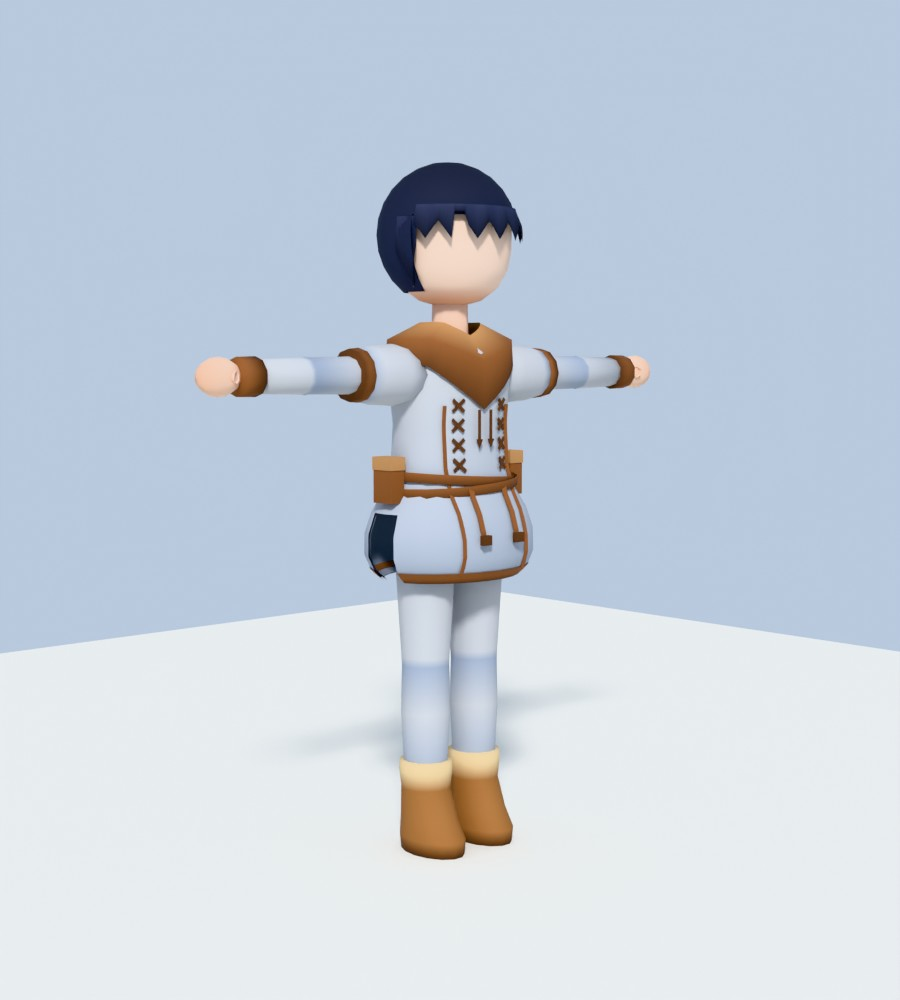
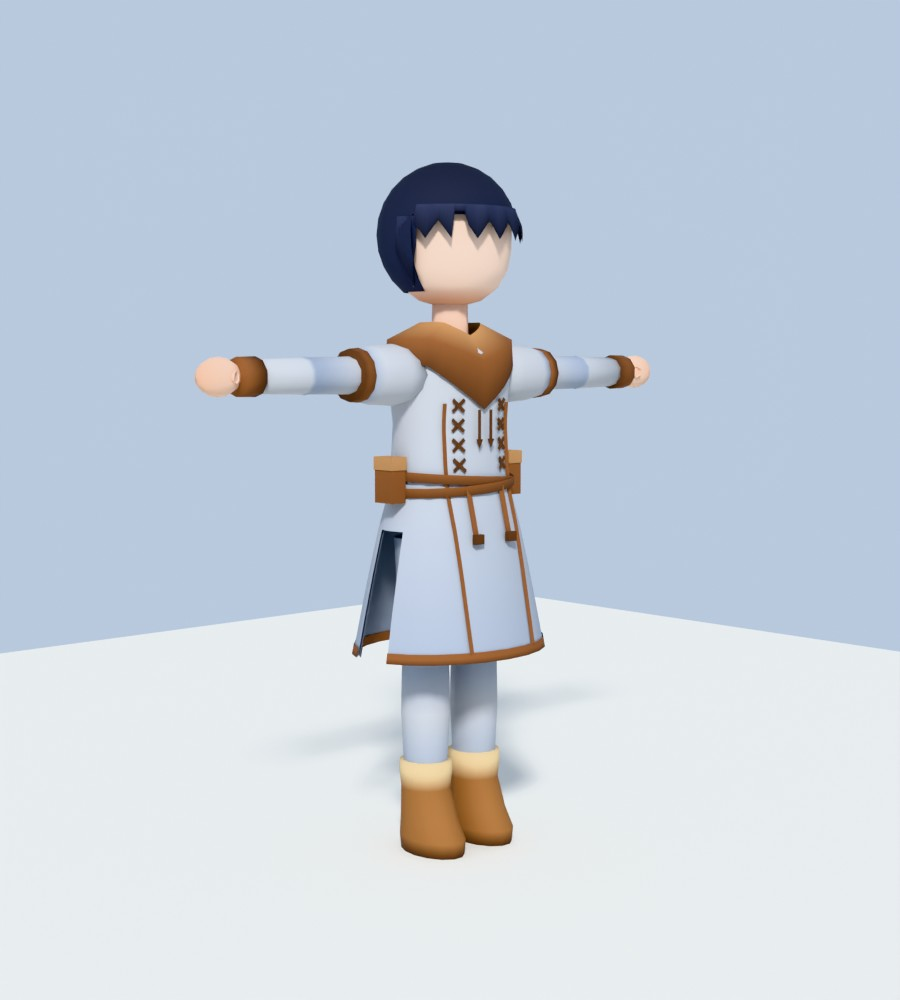
로타 웃옷 아랫자락을 무릎까지 긴 로브로 (스크립트에서 ROBE로 세 가지 모양 선택 가능)
Claude-Session: https://claude.ai/code/session_013o2MuY9sDztt8LyjMZEytH

Changed region(s): [[0.3733, 0.465, 0.6222, 0.744], [0.56, 0.744, 0.5911, 0.806]]

diff --git a/tools/character/rota.py b/tools/character/rota.py
@@ -77,11 +77,20 @@ def ellipsoid_rings(cz, rx, ry, rz, col_top, col_bot, steps=10, cy=0.0, bottom_p
 
 # ---------- body measurements ----------
 HEAD_C = 1.415                     # centre of the skull
-TUNIC = [  # z, rx, ry : the tunic's outline from hem to neck. Below the belt it swells out round and tucks back in
-           # at the hem, like the underside of a door knob
-    (0.645, 0.178, 0.135), (0.665, 0.205, 0.158), (0.70, 0.222, 0.17), (0.75, 0.222, 0.168), (0.80, 0.205, 0.152),
-    (0.845, 0.175, 0.128), (0.90, 0.157, 0.112), (1.00, 0.152, 0.106),
+# Below the belt the tunic hangs like the skirt of a robe. ROBE picks the cut (environment variable, default "long").
+ROBE = os.environ.get("ROBE", "long")
+SKIRTS = {
+    # flares straight out from the belt to mid-thigh
+    "aline": [(0.60, 0.235, 0.18), (0.68, 0.212, 0.162), (0.76, 0.188, 0.142), (0.84, 0.163, 0.12)],
+    # longer, falling to just above the knee
+    "long": [(0.47, 0.25, 0.195), (0.56, 0.232, 0.178), (0.66, 0.21, 0.16), (0.76, 0.186, 0.14), (0.84, 0.163, 0.12)],
+    # swells out round and tucks back in at the hem
+    "round": [(0.645, 0.178, 0.135), (0.665, 0.205, 0.158), (0.70, 0.222, 0.17), (0.75, 0.222, 0.168), (0.80, 0.205, 0.152), (0.845, 0.175, 0.128)],
+}
+TUNIC = SKIRTS[ROBE] + [  # z, rx, ry : the tunic's outline from hem to neck
+    (0.90, 0.157, 0.112), (1.00, 0.152, 0.106),
     (1.10, 0.165, 0.110), (1.165, 0.168, 0.104), (1.20, 0.075, 0.066)]
+HEM = TUNIC[0][0]
 
 
 def tunic_r(z):
@@ -162,22 +171,23 @@ def build():
 
     # ---------- tunic: white, shaded pale blue toward the hem ----------
     def slit(c):                                       # the skirt is split up both sides, below the belt
-        return not (c.z < 0.80 and abs(c.y) < 0.03)
+        return not (c.z < 0.79 and abs(c.y) < 0.03)
     rings = []
     for z, rx, ry in TUNIC:
-        t = (z - 0.645) / 0.55
+        t = (z - HEM) / (1.2 - HEM)
         rings.append((z, rx, ry, mix(WHITE_SH, WHITE, min(1.0, 0.2 + t))))
     lathe(cloth, rings, 24, cap0=False, keep=slit)
     lathe(cloth, [(z, rx - 0.006, ry - 0.006, shade(WHITE_SH, 0.86)) for z, rx, ry in TUNIC if z <= 0.85], 24,
           cap0=False, cap1=False, keep=slit, inward=True)                       # the lining, seen from below
     # brown edging along the hem
-    lathe(leather, [(0.643, 0.181, 0.138, BROWN_D), (0.655, 0.196, 0.15, BROWN), (0.668, 0.209, 0.161, BROWN)], 24, cap0=False, cap1=False, keep=slit)
-    lathe(leather, [(0.643, 0.173, 0.13, BROWN_D), (0.668, 0.2, 0.152, BROWN)], 24, cap0=False, cap1=False, keep=slit, inward=True)
+    band = [(HEM - 0.002 + k * 0.012, *(v + 0.003 for v in tunic_r(HEM - 0.002 + k * 0.012))) for k in range(3)]
+    lathe(leather, [(z, rx, ry, BROWN_D if k == 0 else BROWN) for k, (z, rx, ry) in enumerate(band)], 24, cap0=False, cap1=False, keep=slit)
+    lathe(leather, [(z, rx - 0.011, ry - 0.011, BROWN) for z, rx, ry in band], 24, cap0=False, cap1=False, keep=slit, inward=True)
 
     # trim lines and cross stitches down the front
     for s in (-1, 1):
         x = s * 0.098
-        zs = [0.665 + k * 0.02 for k in range(20)]
+        zs = [HEM + 0.02 + k * 0.02 for k in range(40)]
         for z0, z1 in zip(zs, zs[1:]):
             if z1 > 1.05:
                 break
@@ -231,7 +241,7 @@ def build():
         lathe(leather, [(-0.011, rx + 0.009, ry + 0.009, BROWN_D), (0.011, rx + 0.009, ry + 0.009, BROWN)], 20,
               M=T(0, 0, z) @ R("X", 1.5) @ R("Y", tilt), cap0=False, cap1=False)
     for s in (-1, 1):
-        M = T(s * 0.19, 0.0, 0.825)
+        M = T(s * (tunic_r(0.83)[0] + 0.02), 0.0, 0.825)
         leather.box((0.04, 0.06, 0.095), BROWN, M=M, grad=0.8)
         leather.box((0.044, 0.064, 0.03), BROWN_L, M=M @ T(0, 0, 0.075), grad=0.9)
 
